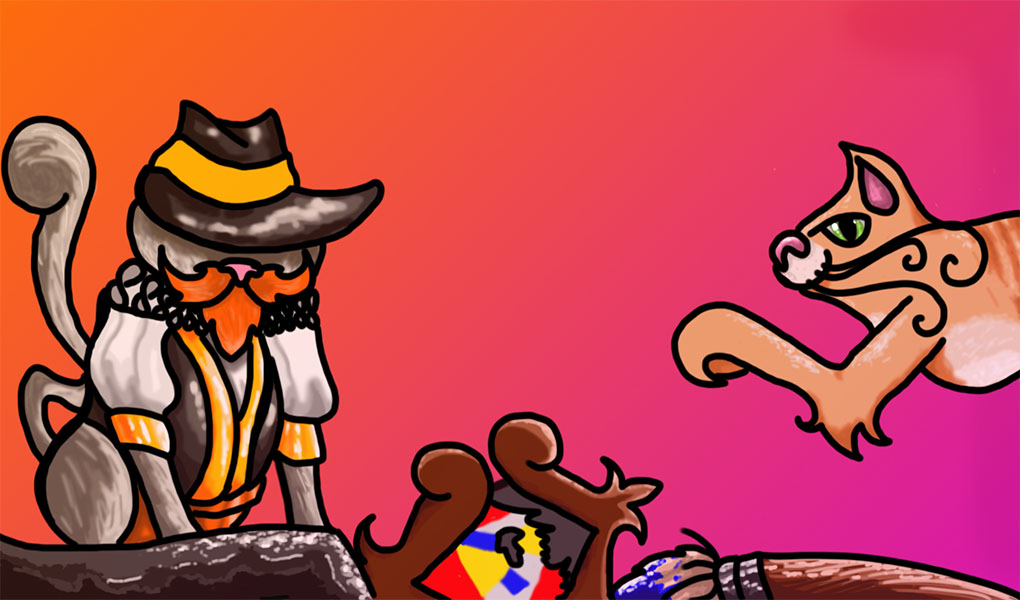
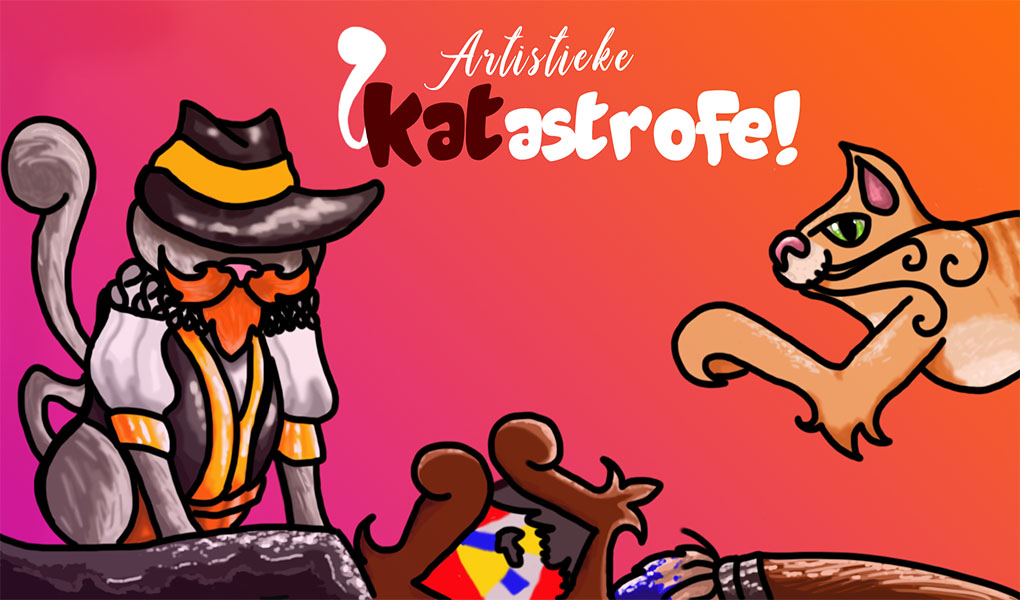
Upaded menu and backgrounds

diff --git a/bin/game.js b/bin/game.js
@@ -189,13 +189,20 @@ var MyGame;
         MainMenu.prototype.create = function () {
             var _this = this;
             this.background = this.add.sprite(0, 0, 'startBackground');
-            var title = this.add.sprite(this.world.centerX, 50, 'title');
-            title.anchor.setTo(0.5, 0);
-            var button = this.add.sprite(this.world.centerX, this.world.centerY, 'startButton');
-            button.anchor.setTo(0.5, 0);
-            button.inputEnabled = true;
-            button.events.onInputDown.add(function () { return _this.startGame(); });
+            this.button = this.add.sprite(this.world.centerX + 40, this.world.centerY - 130, 'startButton');
+            this.button.anchor.setTo(0.5, 0);
+            this.button.inputEnabled = true;
+            this.button.input.useHandCursor = true;
+            this.button.events.onInputDown.add(function () { return _this.startGame(); });
+            this.button.events.onInputOver.add(function () { return _this.hover(); });
+            this.button.events.onInputOut.add(function () { return _this.hoverOut(); });
             console.log("menu state");
+        };
+        MainMenu.prototype.hover = function () {
+            this.button.scale.setTo(1.05, 1.05);
+        };
+        MainMenu.prototype.hoverOut = function () {
+            this.button.scale.setTo(1, 1);
         };
         MainMenu.prototype.startGame = function () {
             this.game.state.start('Level1', true, false);
@@ -266,12 +273,10 @@ var MyGame;
         Preloader.prototype.preload = function () {
             this.load.image('startBackground', 'assets/startBackground.jpg');
             this.load.image('startButton', 'assets/startButton.png');
-            this.load.image('title', 'assets/title.png');
-            this.load.image('level1', 'assets/bg.jpg');
-            this.load.image('bgTile', 'assets/bgTile.jpg');
+            this.load.image('bgTile', 'assets/bgTile.png');
             this.load.image('ground', 'assets/platform.png');
             this.load.image('artPiece', 'assets/artPiece.png');
-            this.load.image('platformTile', 'assets/platformTile');
+            this.load.image('platformTile', 'assets/platformTile.png');
             this.load.image('eye', 'assets/eye.png');
             this.load.spritesheet('dude', 'assets/dude.png', 32, 48, 9);
         };

diff --git a/src/MainMenu.ts b/src/MainMenu.ts
@@ -2,24 +2,32 @@ module MyGame {
 
 	export class MainMenu extends Phaser.State {
 
-		background: Phaser.Sprite;
+		background: Phaser.Sprite
+		button: Phaser.Sprite
 		
 
 		create() {
 			
 			this.background = this.add.sprite(0, 0, 'startBackground');
-			let title = this.add.sprite(this.world.centerX, 50, 'title')
-			title.anchor.setTo(0.5, 0)
-			let button = this.add.sprite(this.world.centerX, this.world.centerY, 'startButton')
-			button.anchor.setTo(0.5, 0)
+			this.button = this.add.sprite(this.world.centerX+40, this.world.centerY-130, 'startButton')
+			this.button.anchor.setTo(0.5, 0)
 
-			button.inputEnabled = true;
+			this.button.inputEnabled = true
+			this.button.input.useHandCursor = true;
 
-			button.events.onInputDown.add(() => this.startGame());
+			this.button.events.onInputDown.add(() => this.startGame())
+			this.button.events.onInputOver.add(() => this.hover())
+			this.button.events.onInputOut.add(() => this.hoverOut())
 
-			//trigger with something..
 			console.log("menu state")
-			// this.startGame()
+		}
+
+		hover(){
+			this.button.scale.setTo(1.05, 1.05)
+		}
+
+		hoverOut(){
+			this.button.scale.setTo(1, 1)
 		}
 
 		startGame() {

diff --git a/src/Preloader.ts b/src/Preloader.ts
@@ -10,11 +10,9 @@ module MyGame {
 			//Load menu items
 			this.load.image('startBackground', 'assets/startBackground.jpg')
 			this.load.image('startButton', 'assets/startButton.png')
-			this.load.image('title', 'assets/title.png')
 
 			//Load items
-			this.load.image('level1', 'assets/bg.jpg')
-			this.load.image('bgTile', 'assets/bgTile.jpg')
+			this.load.image('bgTile', 'assets/bgTile.png')
 			this.load.image('ground', 'assets/platform.png')
 			this.load.image('artPiece', 'assets/artPiece.png')
 			this.load.image('platformTile', 'assets/platformTile.png')
